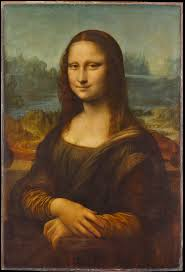
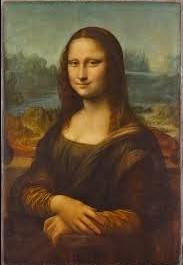
picture and color

diff --git a/index.html b/index.html
@@ -56,7 +56,7 @@
         <img src="assets/monalisa.jpg" alt="Mona Lisa">
         </div>
         <div class="fun">
-        <img src="assets/monalisacat.jpg" alt="Mona Lisa">
+        <img src="assets/monalisacat3.jpg" alt="Mona Lisa">
         </div>
       </div>
       

diff --git a/main.css b/main.css
@@ -120,10 +120,12 @@ li {
   display: none;
   
 }
+/*
 img{
   height: 272px;
   width: 185px;
 }
+*/
 
 #profession {
   font-size: 20px;
